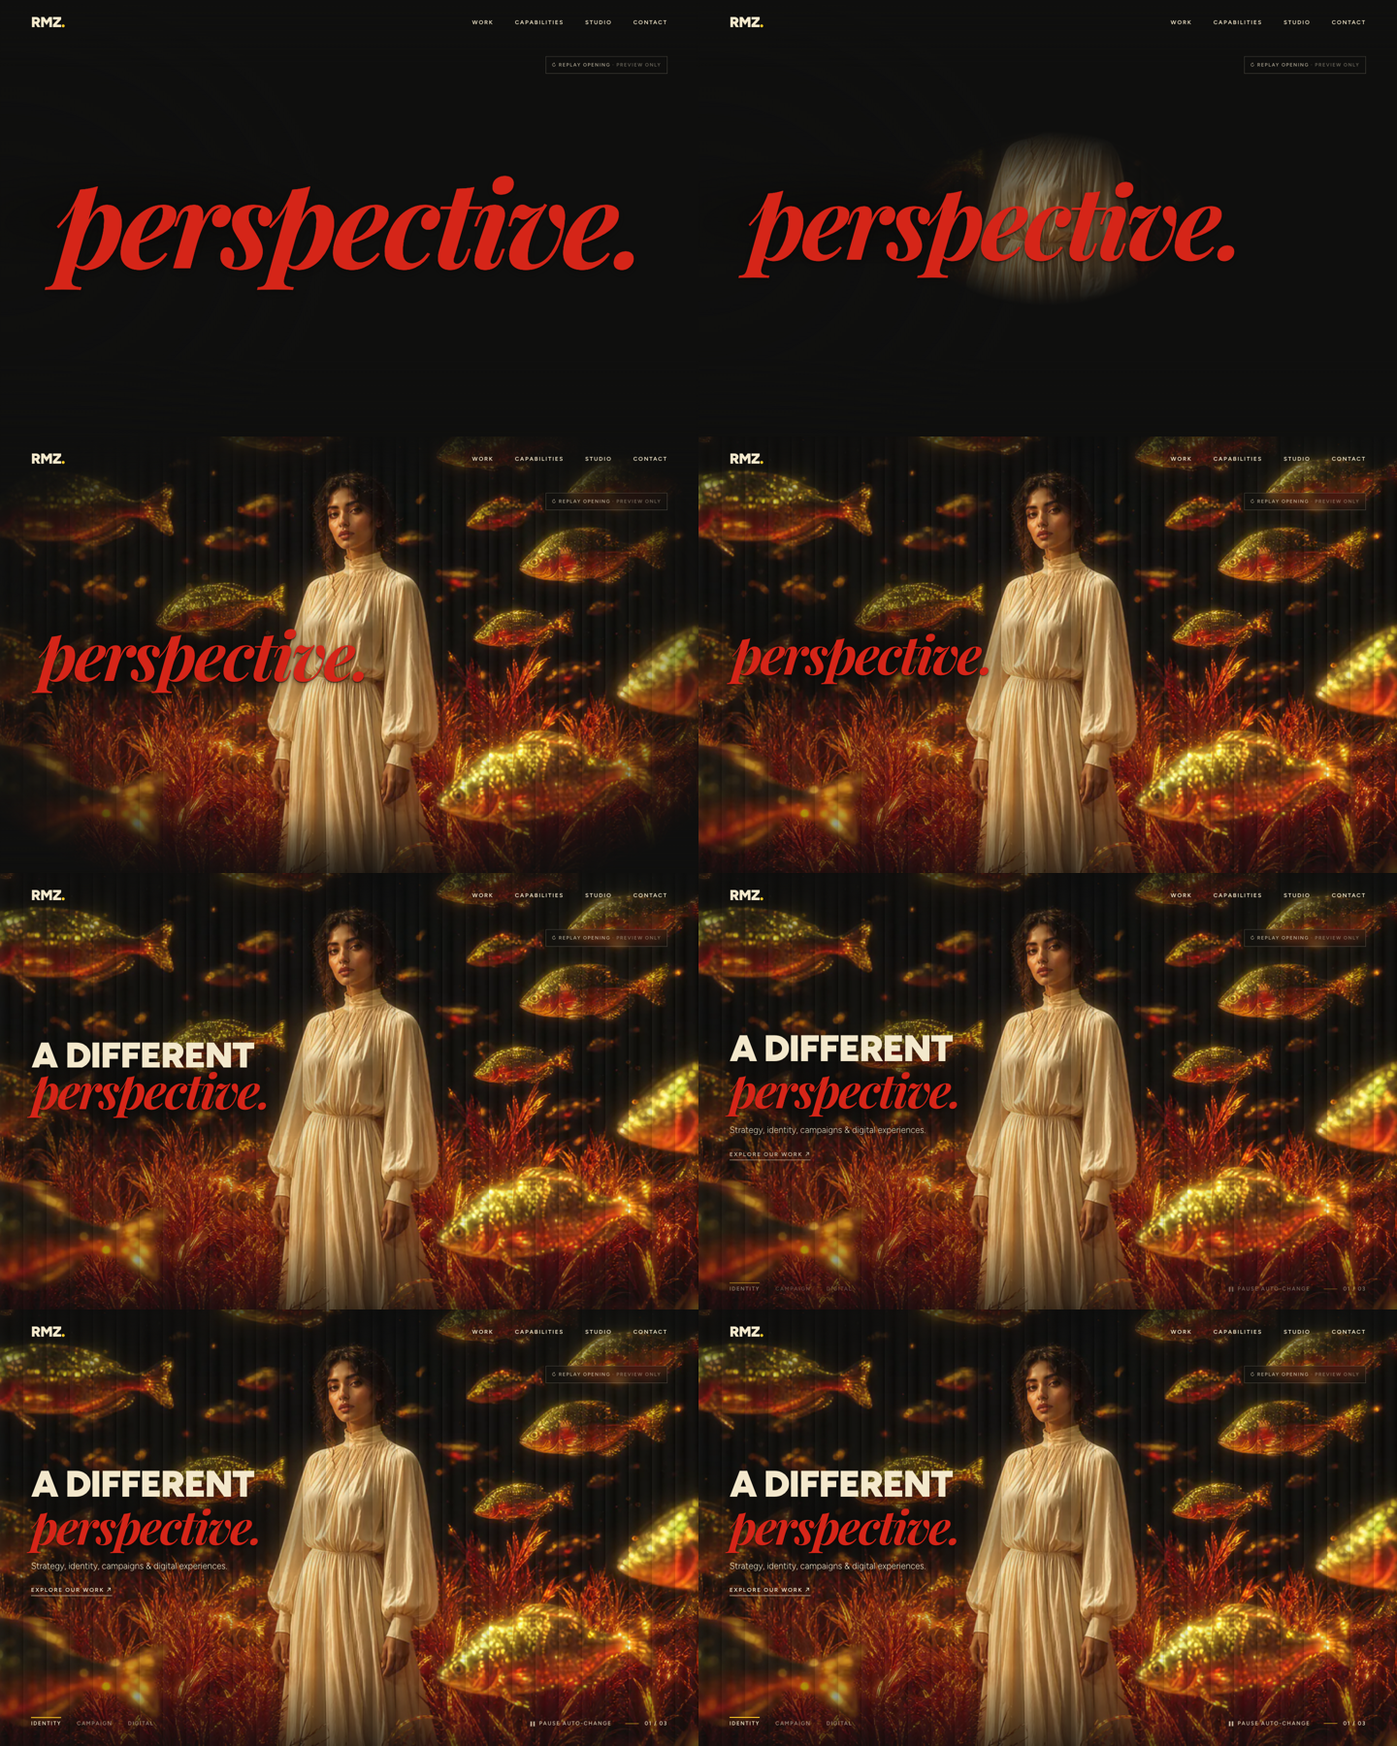
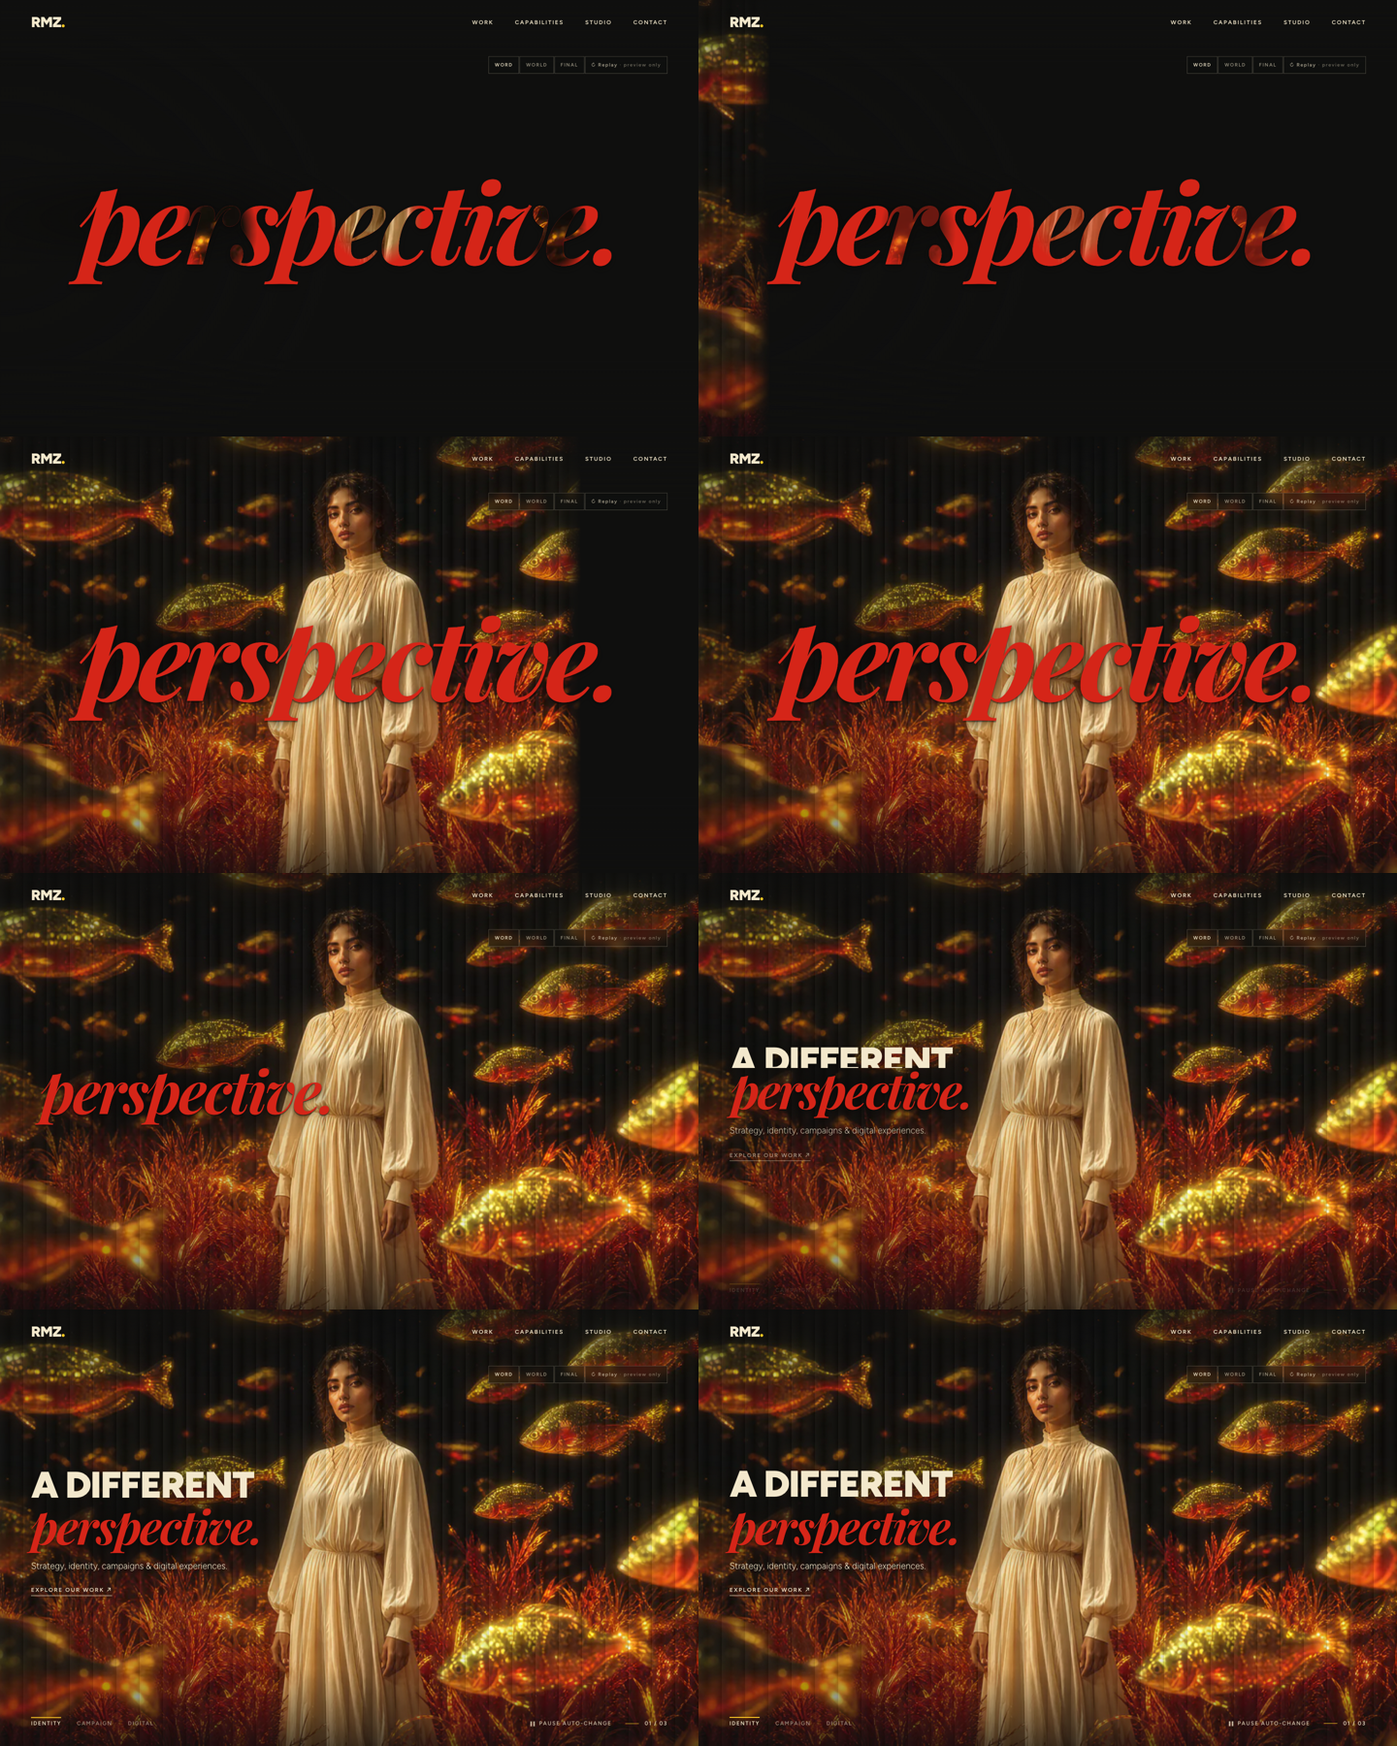
feat(lab): opening executed as image-through-typography (WORD / WORLD / SETTLE), with preview-only WORD/WORLD/FINAL + Replay controls
Ghost word clipped to the aligned full-size picture, controlled left-to-right world wipe (no spotlight), then the same word settles into the headline.

diff --git a/src/components/home/hero-worlds/HeroThreeWorlds.tsx b/src/components/home/hero-worlds/HeroThreeWorlds.tsx
@@ -28,15 +28,20 @@ const STAGGER = 0.6;
 const TRANSITION_MS = Math.round(ROTATE_MS * (1 + STAGGER));
 const AUTO_MS = 5000;
 
-// Opening ("the typography-led reveal"; once per tab session, on entry at the top). The final red word "perspective." starts large and centred on the hero's
-// near-black; the first banner's world is revealed behind it by a feathered mask growing from the word (the picture itself never moves or scales); the SAME word
-// then shrinks/moves into its real headline position (FLIP from its measured final bounds), "A DIFFERENT" rises above it, and the copy and controls follow.
-// All motion is CSS (see hero-worlds.css); nothing drives the frame sequence — that stays on the normal scroll mapping.
+// Opening ("image through typography"; once per tab session, on entry at the top). Three beats, all real CSS animation states (see hero-worlds.css):
+//   WORD   0–400 ms   the final red word "perspective." large and centred on the hero's near-black; the banner shows ONLY through restrained portions of
+//                     the letterforms (a ghost copy of the word clipped to the very same image, aligned to the full-size picture below).
+//   WORLD  400–950    the full-size banner is revealed behind it by a controlled left→right wipe (minimal feathering); the letters go to solid red.
+//   SETTLE 950–1900   only then the SAME word moves/shrinks (FLIP from its measured final bounds) into the headline; "A DIFFERENT" rises during the latter
+//                     part; description/controls follow. The picture never moves or scales; the frame sequence and scroll mapping are untouched.
 const READY_WAIT_MS = 900; // first image not painted by then → show the normal hero instead (no waiting)
-const OPEN_DONE_MS = 1650; // everything finished → hand over to the normal behaviour (countdown starts)
+const OPEN_DONE_MS = 1950; // everything finished → hand over to the normal behaviour (countdown starts)
+const WORD_T = 250; // review poses (preview-only): the actual animations paused at these times
+const WORLD_T = 940;
 const OPEN_KEY = "rmz-hero-three-worlds-opening";
 type Phase = "pending" | "measure" | "armed" | "running" | "done"; // pending: server render / before the decision · measure: reading the headline's final bounds · armed: start pose, waiting for the first image · running · done
-type Pose = { fx: number; fy: number; fs: number; ox: number; oy: number };
+type Pose = { fx: number; fy: number; fs: number; ox: number; oy: number; gw: number; gh: number; gx: number; gy: number };
+type View = "word" | "world" | "final" | null;
 
 /** PROVISIONAL copy. Keyed by banner id; falls back to the content headline. */
 const PHRASES: Record<string, { lead: string; emphasis: string }> = {
@@ -85,6 +90,8 @@ export function HeroThreeWorlds({ hero }: { hero: HeroContent }) {
   const [phase, setPhaseState] = useState<Phase>("pending");
   const [intro, setIntro] = useState(false);
   const [pose, setPose] = useState<Pose | null>(null);
+  const [view, setView] = useState<View>(null); // preview-only: which review pose is held
+  const heldRef = useRef<number | null>(null); // preview-only: animation time being held (null = play normally)
   const phaseRef = useRef<Phase>("pending");
   const setPhase = (p: Phase) => {
     phaseRef.current = p;
@@ -176,11 +183,24 @@ export function HeroThreeWorlds({ hero }: { hero: HeroContent }) {
     const wb = wr.getBoundingClientRect();
     const sb = sec.getBoundingClientRect();
     if (!tr.width || !tr.height) { setPhase("done"); return; }
-    const fs = Math.min((sb.width * (sb.width < 640 ? 0.88 : 0.84)) / tr.width, (sb.height * 0.46) / tr.height, 4); // whole word inside the viewport
+    const usable = sb.width - 2 * tr.left; // tr.left is the page gutter: the headline's left edge
+    const fs = Math.min((usable * (sb.width < 640 ? 0.92 : 0.85)) / tr.width, (sb.height * 0.5) / tr.height, 4); // ~85 % of the usable width, whole word inside the viewport
     const cx = sb.left + sb.width / 2, cy = sb.top + sb.height / 2;
-    setPose({ fs, fx: cx - (fs * tr.width) / 2 - tr.left, fy: cy - (fs * tr.height) / 2 - tr.top, ox: tr.left - wb.left, oy: tr.top - wb.top });
+    const fx = cx - (fs * tr.width) / 2 - tr.left, fy = cy - (fs * tr.height) / 2 - tr.top;
+    // Where the full-size picture (the engine's centred "cover" of frame 1) sits, expressed in the word's own un-transformed layout space, so the ghost word's
+    // background is pixel-aligned with the picture revealed behind it: V = O + (P − O − t) / s, with O = the transform origin.
+    const poster = banners[0].poster;
+    let g = { gw: 0, gh: 0, gx: 0, gy: 0 };
+    if (poster && poster.width && poster.height) {
+      const k = Math.max(sb.width / poster.width, sb.height / poster.height);
+      const dw = poster.width * k, dh = poster.height * k;
+      const px = sb.left + (sb.width - dw) / 2, py = sb.top + (sb.height - dh) / 2;
+      const spb = sp.getBoundingClientRect();
+      g = { gw: dw / fs, gh: dh / fs, gx: tr.left + (px - tr.left - fx) / fs - spb.left, gy: tr.top + (py - tr.top - fy) / fs - spb.top };
+    }
+    setPose({ fs, fx, fy, ox: tr.left - wb.left, oy: tr.top - wb.top, ...g });
     setPhase("armed");
-  }, [phase]);
+  }, [phase, banners]);
   /* eslint-enable react-hooks/set-state-in-effect */
 
   // Armed → running once the first image has painted (the engine's existing readiness). Two frames are allowed to paint the start pose first. If the image is not
@@ -198,6 +218,12 @@ export function HeroThreeWorlds({ hero }: { hero: HeroContent }) {
 
   useEffect(() => {
     if (phase !== "running") return;
+    if (heldRef.current !== null) {
+      // preview-only review pose: pause the REAL animations at the chosen time (no auto-completion while held)
+      const t = heldRef.current;
+      const id = requestAnimationFrame(() => sectionRef.current?.getAnimations({ subtree: true }).forEach((a) => { a.pause(); a.currentTime = t; }));
+      return () => cancelAnimationFrame(id);
+    }
     const t = window.setTimeout(() => { if (phaseRef.current === "running") setPhase("done"); }, OPEN_DONE_MS);
     return () => window.clearTimeout(t);
   }, [phase]);
@@ -205,7 +231,10 @@ export function HeroThreeWorlds({ hero }: { hero: HeroContent }) {
   // Any scroll / wheel / touch / key / pointer input finishes the opening immediately. Nothing is prevented, scroll is never locked or reset.
   useEffect(() => {
     if (phase !== "armed" && phase !== "running") return;
-    const fin = () => finishOpening();
+    const fin = (e: Event) => {
+      if ((e.target as Element | null)?.closest?.("[data-hw-preview]")) return; // the preview-only controls are not user input to the page
+      finishOpening();
+    };
     const onScroll = () => { if (window.scrollY > 2) finishOpening(); };
     const evs = ["wheel", "touchstart", "pointerdown", "keydown"] as const;
     evs.forEach((e) => window.addEventListener(e, fin, { passive: true }));
@@ -217,8 +246,9 @@ export function HeroThreeWorlds({ hero }: { hero: HeroContent }) {
     // eslint-disable-next-line react-hooks/exhaustive-deps -- finishOpening only touches refs/setState
   }, [phase]);
 
-  // Prototype-only: replay the opening for review (back to the top, first banner, then measure → arm → run again).
-  const replay = () => {
+  // Prototype-only review controls. Replay: back to the top + first banner, then measure → arm → run. WORD / WORLD: the same run, with the real animations held at
+  // 250 ms / 940 ms. FINAL: the finished normal hero.
+  const restart = () => {
     finishOpening();
     window.scrollTo({ top: 0, behavior: "instant" });
     lastFace.current = 0;
@@ -228,6 +258,22 @@ export function HeroThreeWorlds({ hero }: { hero: HeroContent }) {
     setTurns(0);
     setIntro(true);
     setPhase("measure");
+  };
+  const replay = () => {
+    heldRef.current = null;
+    setView(null);
+    restart();
+  };
+  const review = (v: Exclude<View, null>) => {
+    setView(v);
+    if (v === "final") {
+      heldRef.current = null;
+      finishOpening();
+      return;
+    }
+    heldRef.current = v === "word" ? WORD_T : WORLD_T;
+    if (phaseRef.current === "running") sectionRef.current?.getAnimations({ subtree: true }).forEach((a) => { a.pause(); a.currentTime = heldRef.current!; });
+    else if (phaseRef.current === "done" || phaseRef.current === "pending") restart();
   };
 
   useEffect(() => {
@@ -292,7 +338,7 @@ export function HeroThreeWorlds({ hero }: { hero: HeroContent }) {
       onKeyDown={onKeyDown}
       data-boot={boot ? "1" : "0"}
       data-open={phase}
-      style={pose ? ({ "--fx": `${pose.fx}px`, "--fy": `${pose.fy}px`, "--fs": pose.fs, "--ox": `${pose.ox}px`, "--oy": `${pose.oy}px` } as React.CSSProperties) : undefined}
+      style={pose ? ({ "--fx": `${pose.fx}px`, "--fy": `${pose.fy}px`, "--fs": pose.fs, "--ox": `${pose.ox}px`, "--oy": `${pose.oy}px`, "--gbs": `${pose.gw}px ${pose.gh}px`, "--gbp": `${pose.gx}px ${pose.gy}px`, "--gimg": `url("${banners[0].poster?.src ?? ""}")` } as React.CSSProperties) : undefined}
       data-intro={intro ? "1" : "0"}
       className="hw-root relative flex h-svh min-h-[560px] flex-col overflow-hidden bg-ink"
     >
@@ -390,6 +436,7 @@ export function HeroThreeWorlds({ hero }: { hero: HeroContent }) {
                     </span>
                     <span className="hw-line t-italic mt-1.5 text-[clamp(46px,13.6vw,60px)] text-red md:mt-2 md:text-[clamp(58px,6.7vw,104px)]" style={{ ["--l" as string]: 1 }}>
                       <span>{p.emphasis}</span>
+                      <span className="hw-ghost" aria-hidden="true">{p.emphasis}</span>
                     </span>
                   </span>
                 );
@@ -443,14 +490,17 @@ export function HeroThreeWorlds({ hero }: { hero: HeroContent }) {
         </div>
       </div>
 
-      {/* prototype-only review control (not part of the hero composition) */}
-      <button
-        type="button"
-        onClick={replay}
-        className="t-meta absolute bottom-[72px] right-(--gutter) z-10 min-h-9 md:bottom-auto md:top-[116px] border border-cream/25 bg-ink/40 px-3 text-[10px] text-cream/70 backdrop-blur-sm transition-colors hover:text-cream"
-      >
-        ↻ Replay<span className="hidden sm:inline"> opening</span> <span className="hidden opacity-60 sm:inline">· preview only</span>
-      </button>
+      {/* prototype-only review controls (not part of the hero composition) */}
+      <div data-hw-preview="" className="t-meta absolute right-(--gutter) top-[84px] z-10 flex items-center gap-px text-[10px] md:top-[116px]" role="group" aria-label="Opening review (preview only)">
+        {(["word", "world", "final"] as const).map((v) => (
+          <button key={v} type="button" aria-pressed={view === v} onClick={() => review(v)} className={`min-h-9 border border-cream/25 bg-ink/50 px-2.5 uppercase backdrop-blur-sm transition-colors md:px-3 ${view === v ? "text-cream" : "text-cream/60 hover:text-cream"}`}>
+            {v}
+          </button>
+        ))}
+        <button type="button" onClick={replay} className="min-h-9 border border-cream/25 bg-ink/50 px-2.5 text-cream/70 backdrop-blur-sm transition-colors hover:text-cream md:px-3">
+          ↻ Replay<span className="hidden opacity-60 md:inline"> · preview only</span>
+        </button>
+      </div>
       <noscript>
         <style>{`.hw-root [data-hw-poster]{opacity:1!important}.hw-root .hw-image{-webkit-mask-image:none!important;mask-image:none!important}.hw-root .hw-rise{animation:none!important;opacity:1!important}.hw-root .hw-line.t-italic{visibility:visible!important}.hw-root .hw-phrase[data-state="active"] .hw-line>span{animation:none!important;transform:none!important}`}</style>
       </noscript>

diff --git a/src/components/home/hero-worlds/hero-worlds.css b/src/components/home/hero-worlds/hero-worlds.css
@@ -24,33 +24,47 @@
 .hw-rise { animation: hw-rise 560ms cubic-bezier(.2,.8,.2,1) both; animation-delay: calc(300ms + var(--rd, 0) * 80ms); }
 @keyframes hw-rise { from { opacity: 0; transform: translateY(8px); } to { opacity: 1; transform: none; } }
 
-/* ── Opening: the typography-led reveal (see HeroThreeWorlds). Held while data-open is pending / measure / armed; the animations run when it becomes "running".
-   data-intro stays set, so nothing restarts when the phase becomes "done". Everything is a transform/opacity/mask: the picture never moves or scales. ── */
+/* ── Opening: image through typography (see HeroThreeWorlds). Held while data-open is pending / measure / armed; the animations run when it becomes
+   "running". data-intro stays set, so nothing restarts when the phase becomes "done". Beats (ms): WORD 0–400 · WORLD 400–950 · SETTLE 950–1900. ── */
 @property --hw-k { syntax: "<number>"; inherits: false; initial-value: 0; }
-/* the world: a broad, softly feathered mask growing outward from the word's region (the hero centre) */
+
+/* WORLD — the full-size picture is revealed by a controlled left→right wipe with a narrow (3.5 %) edge; nothing of it is visible before (no spotlight, no glow) */
 .hw-root:is([data-open="pending"], [data-open="measure"], [data-open="armed"], [data-open="running"]) .hw-image {
-  -webkit-mask-image: radial-gradient(ellipse farthest-corner at 50% 50%, #000 calc(var(--hw-k) * 135% - 35%), transparent calc(var(--hw-k) * 135%));
-  mask-image: radial-gradient(ellipse farthest-corner at 50% 50%, #000 calc(var(--hw-k) * 135% - 35%), transparent calc(var(--hw-k) * 135%));
+  -webkit-mask-image: linear-gradient(90deg, #000 calc(var(--hw-k) * 103.5% - 3.5%), transparent calc(var(--hw-k) * 103.5%));
+  mask-image: linear-gradient(90deg, #000 calc(var(--hw-k) * 103.5% - 3.5%), transparent calc(var(--hw-k) * 103.5%));
 }
 .hw-root:is([data-open="pending"], [data-open="measure"], [data-open="armed"]) .hw-image { --hw-k: 0; }
-.hw-root[data-open="running"] .hw-image { animation: hw-reveal 1100ms cubic-bezier(.3,.55,.2,1) 90ms both; }
+.hw-root[data-open="running"] .hw-image { animation: hw-reveal 550ms cubic-bezier(.4,0,.25,1) 400ms both; }
 @keyframes hw-reveal { from { --hw-k: 0; } to { --hw-k: 1; } }
 
-/* the word: the real "perspective." line, FLIP-animated from its measured start pose (--fx/--fy/--fs/--ox/--oy) to its natural place (transform: none) */
-.hw-root[data-intro="1"][data-boot="1"] .hw-phrase[data-state="active"] .hw-line.t-italic > span { animation: none; transform: none; }
+/* WORD — the real "perspective." line is the animated element: FLIP from its measured start pose (--fx/--fy/--fs/--ox/--oy) to its natural place (transform: none) */
+.hw-root[data-intro="1"][data-boot="1"] .hw-phrase[data-state="active"] .hw-line.t-italic > span:not(.hw-ghost) { animation: none; transform: none; }
 .hw-root:is([data-open="pending"], [data-open="measure"]) .hw-phrase[data-state="active"] .hw-line.t-italic { visibility: hidden; }
+.hw-line.t-italic { position: relative; }
 .hw-root:is([data-open="armed"], [data-open="running"]) .hw-phrase[data-state="active"] .hw-line.t-italic { overflow: visible; transform-origin: var(--ox, 0px) var(--oy, 0px); }
 .hw-root[data-open="armed"] .hw-phrase[data-state="active"] .hw-line.t-italic { transform: translate(var(--fx, 0px), var(--fy, 0px)) scale(var(--fs, 1)); }
-.hw-root[data-open="running"] .hw-phrase[data-state="active"] .hw-line.t-italic { animation: hw-word 1150ms cubic-bezier(.22,.7,.2,1) 110ms both; }
+/* SETTLE — only after the world is visible (950 ms) */
+.hw-root[data-open="running"] .hw-phrase[data-state="active"] .hw-line.t-italic { animation: hw-word 800ms cubic-bezier(.22,.7,.2,1) 950ms both; }
 @keyframes hw-word { from { transform: translate(var(--fx, 0px), var(--fy, 0px)) scale(var(--fs, 1)); } to { transform: none; } }
 
-/* "A DIFFERENT" completes the headline: a restrained upward mask as the word settles */
-.hw-root:is([data-open="pending"], [data-open="measure"], [data-open="armed"]) .hw-phrase[data-state="active"] .hw-line.t-display > span { animation: none; transform: translateY(190%); }
-.hw-root[data-intro="1"][data-boot="1"]:is([data-open="running"], [data-open="done"]) .hw-phrase[data-state="active"] .hw-line.t-display > span { animation-duration: 700ms; animation-timing-function: cubic-bezier(.25,.7,.2,1); animation-delay: 620ms; }
+/* image through the letters: a ghost copy of the word, transparent fill clipped to the SAME picture (size/position computed in JS so it lines up exactly with the
+   full-size image behind), visible only through a few restrained portions (mask); red stays the dominant lettering colour. It fades out as the world arrives. */
+.hw-ghost { display: none; position: absolute; left: 0.35em; top: 0.14em; white-space: nowrap; pointer-events: none; text-shadow: none;
+  color: transparent; -webkit-text-fill-color: transparent; -webkit-background-clip: text; background-clip: text;
+  background-image: var(--gimg); background-repeat: no-repeat; background-size: var(--gbs); background-position: var(--gbp);
+  -webkit-mask-image: radial-gradient(ellipse 7% 55% at 26% 63%, #000 62%, transparent 100%), radial-gradient(ellipse 8.5% 48% at 55% 50%, #000 62%, transparent 100%), radial-gradient(ellipse 6% 50% at 88% 62%, #000 62%, transparent 100%);
+  mask-image: radial-gradient(ellipse 7% 55% at 26% 63%, #000 62%, transparent 100%), radial-gradient(ellipse 8.5% 48% at 55% 50%, #000 62%, transparent 100%), radial-gradient(ellipse 6% 50% at 88% 62%, #000 62%, transparent 100%); }
+.hw-root:is([data-open="armed"], [data-open="running"]) .hw-phrase[data-state="active"] .hw-ghost { display: block; }
+.hw-root[data-open="running"] .hw-phrase[data-state="active"] .hw-ghost { animation: hw-ghost 340ms ease-in-out 600ms both; }
+@keyframes hw-ghost { from { opacity: 1; } to { opacity: 0; } }
 
-/* description · link · bottom controls near the end */
+/* "A DIFFERENT" completes the headline during the latter part of the movement */
+.hw-root:is([data-open="pending"], [data-open="measure"], [data-open="armed"]) .hw-phrase[data-state="active"] .hw-line.t-display > span { animation: none; transform: translateY(190%); }
+.hw-root[data-intro="1"][data-boot="1"]:is([data-open="running"], [data-open="done"]) .hw-phrase[data-state="active"] .hw-line.t-display > span { animation-duration: 620ms; animation-timing-function: cubic-bezier(.25,.7,.2,1); animation-delay: 1250ms; }
+
+/* description · link · bottom controls follow; everything is finished at ≈1.9 s */
 .hw-root:is([data-open="pending"], [data-open="measure"], [data-open="armed"]) .hw-rise { animation: none; opacity: 0; }
-.hw-root[data-intro="1"] .hw-rise { animation-duration: 580ms; animation-timing-function: cubic-bezier(.25,.7,.2,1); animation-delay: calc(900ms + var(--rd, 0) * 80ms); }
+.hw-root[data-intro="1"] .hw-rise { animation-duration: 480ms; animation-timing-function: cubic-bezier(.25,.7,.2,1); animation-delay: calc(1300ms + var(--rd, 0) * 60ms); }
 
 /* Scrim behind the headline, concentrated on the red italic line (the 2nd line, ≈ 62 % down the block). Elliptical radial gradient with a long
    smooth tail (many stops, eased) → no box, no edge. Sized in em of the headline so it follows any copy length/size. */
